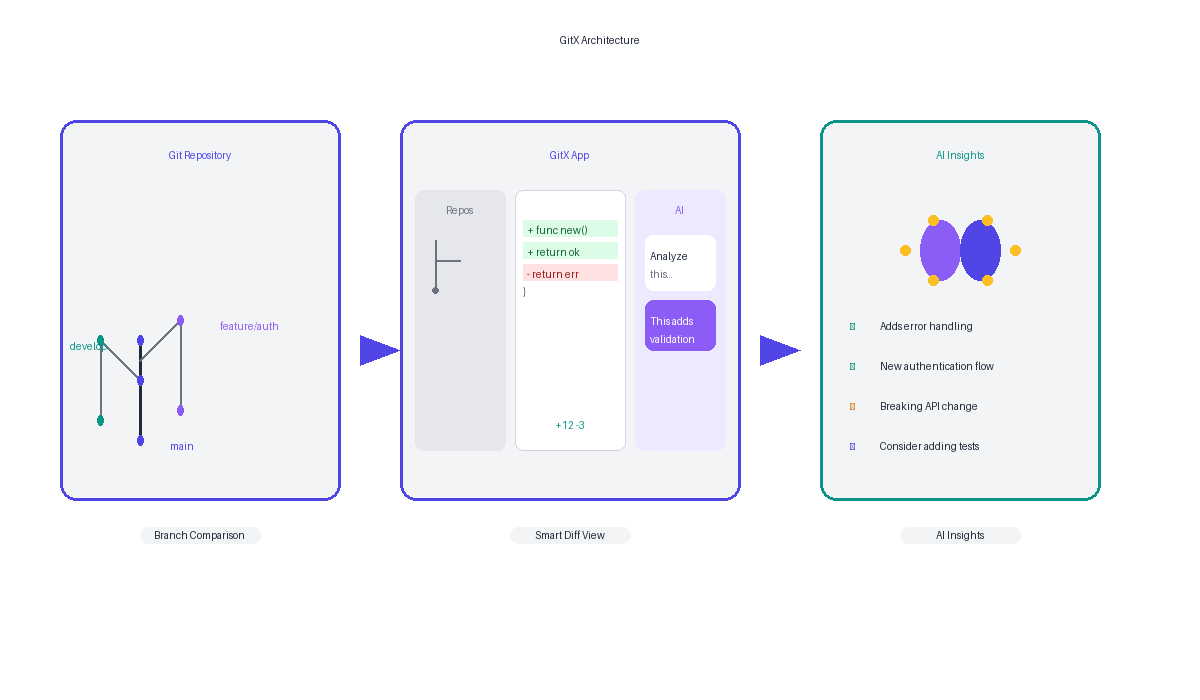
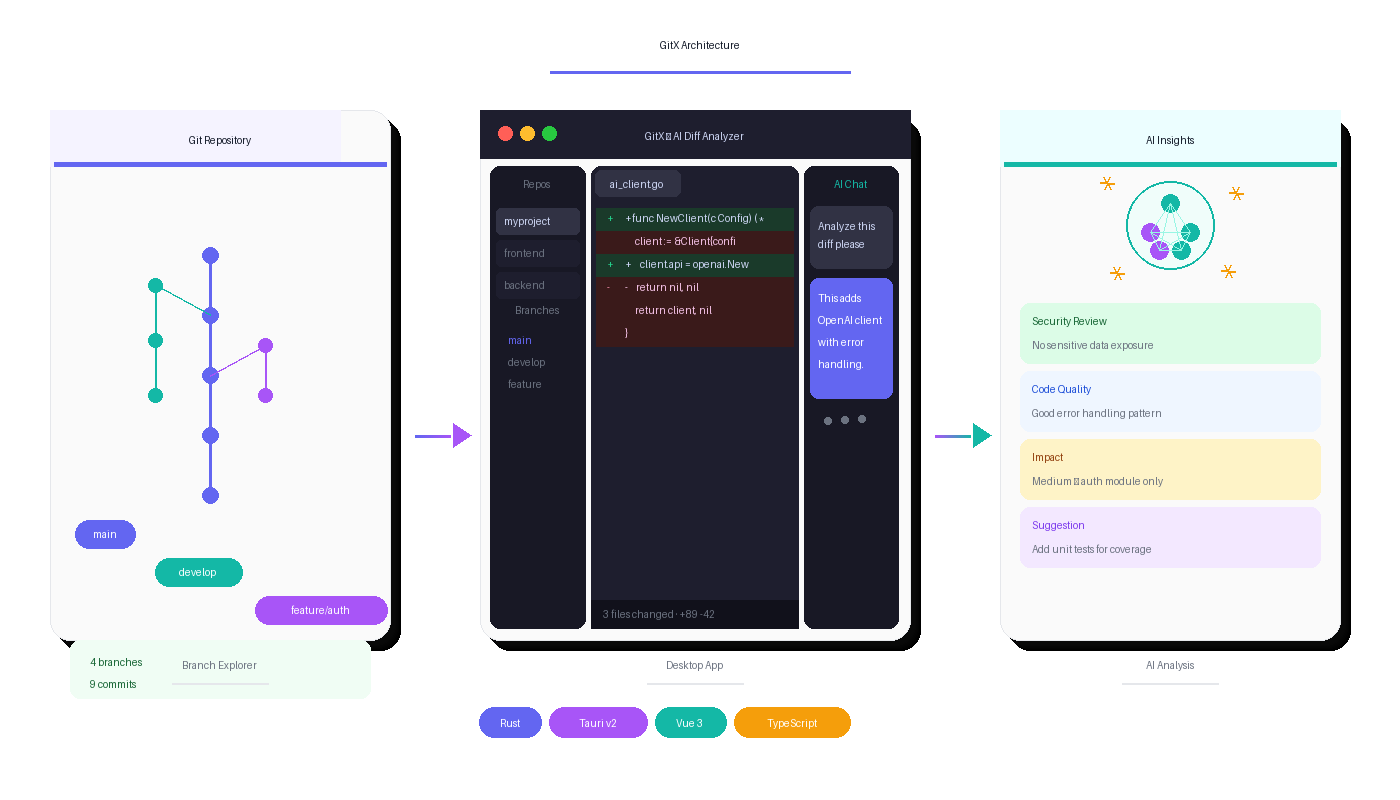
docs: redesign architecture diagram with professional quality
- Clean white background with card-based layout
- Three sections: Git Repository → GitX App (with UI mockup) → AI Insights
- Catppuccin-inspired dark theme for the app window preview
- Git branch tree visualization with colored commit nodes
- Diff code view showing +/- lines
- AI chat panel and insight cards
- Tech stack badges at bottom

diff --git a/gen_arch.py b/gen_arch.py
@@ -1,0 +1,268 @@
+#!/usr/bin/env python3
+"""Generate GitX architecture diagram"""
+from PIL import Image, ImageDraw, ImageFont
+import math, os
+
+W, H = 1400, 800
+img = Image.new('RGB', (W, H), '#ffffff')
+draw = ImageDraw.Draw(img)
+
+# Colors
+indigo = '#6366F1'
+teal = '#14B8A6'
+purple = '#A855F7'
+amber = '#F59E0B'
+dark = '#111827'
+gray = '#6B7280'
+light_gray = '#E5E7EB'
+card_bg = '#FAFAFA'
+
+# Fonts
+try:
+    title_f = ImageFont.truetype("/System/Library/Fonts/Helvetica.ttc", 36)
+    h2_f = ImageFont.truetype("/System/Library/Fonts/Helvetica.ttc", 22)
+    h3_f = ImageFont.truetype("/System/Library/Fonts/Helvetica.ttc", 18)
+    body_f = ImageFont.truetype("/System/Library/Fonts/Helvetica.ttc", 15)
+    small_f = ImageFont.truetype("/System/Library/Fonts/Helvetica.ttc", 13)
+    mono_f = ImageFont.truetype("/System/Library/Fonts/SF Mono.ttc", 11)
+except:
+    title_f = h2_f = h3_f = body_f = small_f = mono_f = ImageFont.load_default()
+
+def shadow_card(x, y, w, h, radius=20):
+    for i in range(12, 0, -1):
+        alpha = int(10 * (12-i)/12)
+        c = f'#{alpha:02x}{alpha:02x}{alpha:02x}'
+        draw.rounded_rectangle([x+4+i//2, y+4+i//2, x+w+4+i//2, y+h+4+i//2], 
+                              radius=radius, fill=c)
+    draw.rounded_rectangle([x, y, x+w, y+h], radius=radius, fill=card_bg, outline=light_gray)
+
+# === Title ===
+draw.text((W//2, 45), "GitX Architecture", font=title_f, fill=dark, anchor="mm")
+draw.line([(W//2-150, 72), (W//2+150, 72)], fill=indigo, width=3)
+
+# === Block 1: Git Repository ===
+b1x, b1y = 50, 110
+bw, bh = 340, 530
+shadow_card(b1x, b1y, bw, bh)
+draw.rounded_rectangle([b1x, b1y, bw, b1y+56], 
+                        corners=[(20,0),(20,0),(0,0),(0,20)], fill='#F5F3FF')
+draw.rectangle([b1x+4, b1y+52, b1x+bw-4, b1y+56], fill=indigo)
+draw.text((b1x + bw//2, b1y+30), "Git Repository", font=h2_f, fill=dark, anchor="mm")
+
+# Git tree
+tree_cx = b1x + bw//2 - 10
+tree_top = b1y + 100
+
+main_x = tree_cx
+for i in range(5):
+    y = tree_top + 45 + i*60
+    if i > 0:
+        draw.line([(main_x, tree_top+45+(i-1)*60), (main_x, y)], fill=indigo, width=3)
+    draw.ellipse([main_x-8, y-8, main_x+8, y+8], fill=indigo)
+
+dev_x = main_x - 55
+for i in range(3):
+    y = tree_top + 75 + i*55
+    if i > 0:
+        draw.line([(dev_x, tree_top+75+(i-1)*55), (dev_x, y)], fill=teal, width=2)
+    draw.ellipse([dev_x-7, y-7, dev_x+7, y+7], fill=teal)
+draw.line([(main_x, tree_top+105), (dev_x, tree_top+75)], fill=teal, width=2)
+
+feat_x = main_x + 55
+for i in range(2):
+    y = tree_top + 135 + i*50
+    if i > 0:
+        draw.line([(feat_x, tree_top+135+(i-1)*50), (feat_x, y)], fill=purple, width=2)
+    draw.ellipse([feat_x-7, y-7, feat_x+7, y+7], fill=purple)
+draw.line([(main_x, tree_top+165), (feat_x, tree_top+135)], fill=purple, width=2)
+
+# Branch labels
+label_y = tree_top + 310
+pill_data = [(b1x+25, label_y, "main", indigo),
+             (b1x+105, label_y+38, "develop", teal),
+             (b1x+205, label_y+76, "feature/auth", purple)]
+for px, py, txt, col in pill_data:
+    tw = len(txt)*9 + 24
+    draw.rounded_rectangle([px, py, px+tw, py+28], radius=14, fill=col)
+    draw.text((px+tw//2, py+14), txt, font=body_f, fill='white', anchor="mm")
+
+# Stats
+stats_y = label_y + 120
+draw.rounded_rectangle([b1x+20, stats_y, b1x+bw-20, stats_y+58], radius=10, fill='#F0FDF4')
+draw.text((b1x+40, stats_y+16), "4 branches", font=body_f, fill='#166534')
+draw.text((b1x+40, stats_y+38), "9 commits", font=body_f, fill='#166534')
+
+# === Arrow 1 ===
+arr_x = b1x + bw + 25
+arr_mid = arr_x + 40
+arr_y = H//2 + 35
+for i in range(36):
+    r = int(99*(1-i/36) + 168*i/36)
+    g = int(102*(1-i/36) + 85*i/36)
+    b_val = int(241*(1-i/36) + 247*i/36)
+    draw.line([(arr_x+i, arr_y), (arr_x+i, arr_y+2)], fill=f'#{r:02x}{g:02x}{b_val:02x}')
+draw.polygon([(arr_x+38, arr_y-12), (arr_x+56, arr_y), (arr_x+38, arr_y+12)], fill=purple)
+
+# === Block 2: GitX App Window ===
+b2x = b1x + bw + 90
+b2w, b2h = 430, 530
+shadow_card(b2x, b1y, b2w, b2h)
+
+# Title bar
+draw.rounded_rectangle([b2x, b1y, b2x+b2w, b1y+48],
+                        corners=[(20,0),(20,0),(0,0),(0,20)], fill='#1e1e2e')
+draw.ellipse([b2x+18, b1y+16, b2x+32, b1y+30], fill='#FF5F57')
+draw.ellipse([b2x+40, b1y+16, b2x+54, b1y+30], fill='#FEBC2E')
+draw.ellipse([b2x+62, b1y+16, b2x+76, b1y+30], fill='#28C840')
+draw.text((b2x+b2w//2, b1y+26), "GitX — AI Diff Analyzer", font=h3_f, fill='#cdd6f4', anchor="mm")
+
+app_y = b1y + 56
+app_h = b2h - 68
+gap, pad = 6, 10
+
+# Sidebar
+sw = 95
+draw.rounded_rectangle([b2x+pad, app_y, b2x+pad+sw, app_y+app_h], radius=10, fill='#181825')
+draw.text((b2x+pad+sw//2, app_y+18), "Repos", font=small_f, fill=gray, anchor="mm")
+items = ['myproject', 'frontend', 'backend']
+iy = app_y+42
+for item in items:
+    bg = '#313244' if item=='myproject' else '#1e1e2e'
+    fg = '#cdd6f4' if item=='myproject' else gray
+    draw.rounded_rectangle([b2x+pad+6, iy, b2x+pad+sw-6, iy+26], radius=5, fill=bg)
+    draw.text((b2x+pad+14, iy+13), item, font=small_f, fill=fg, anchor="lm")
+    iy += 32
+iy += 6
+draw.text((b2x+pad+sw//2, iy), "Branches", font=small_f, fill=gray, anchor="mm")
+iy += 24
+for txt, col in [('main', indigo), ('develop', gray), ('feature', gray)]:
+    draw.text((b2x+pad+14, iy), f"  {txt}", font=mono_f, fill=col)
+    iy += 22
+
+# Diff panel
+dx = b2x+pad+sw+gap
+dw = b2w-sw-pad*2-gap-96-gap
+draw.rounded_rectangle([dx, app_y, dx+dw, app_y+app_h], radius=10, fill='#1e1e2e')
+tab_w = 85
+draw.rounded_rectangle([dx+4, app_y+4, dx+4+tab_w, app_y+30], radius=6, fill='#313244')
+draw.text((dx+4+tab_w//2, app_y+18), "ai_client.go", font=mono_f, fill='#cdd6f4', anchor="mm")
+
+dy = app_y+42
+diffs = [
+    ("+", "#23D18B", "+func NewClient(c Config) (*Client, error) {"),
+    (" ", "", "     client := &Client{config: c}"),
+    ("+", "#23D18B", "+    client.api = openai.New()"),
+    ("-", "#F38BA8", "-    return nil, nil"),
+    (" ", "", "     return client, nil"),
+    (" ", "", "}"),
+]
+line_h = 23
+max_chars = int(dw / 7.2)
+for sign, color, code in diffs:
+    bg = '#1a1a28' if not sign else ('#1a3a2a' if sign == '+' else '#3a1a1a')
+    draw.rectangle([dx+5, dy, dx+dw-5, dy+line_h], fill=bg)
+    draw.text((dx+14, dy+4), f"{sign:>2}", font=mono_f, fill=color if color else gray)
+    display_code = code[:max_chars] if len(code) > max_chars else code
+    fg_color = '#cdd6f4' if not sign or sign == '+' else '#f5c2e7'
+    draw.text((dx+34, dy+4), display_code, font=mono_f, fill=fg_color)
+    dy += line_h
+
+status_y = app_y+app_h-28
+draw.rectangle([dx, status_y, dx+dw, app_y+app_h], fill='#11111b')
+draw.text((dx+12, status_y+8), "3 files changed · +89 -42", font=small_f, fill=gray)
+
+# AI Panel
+ax = dx+dw+gap
+aw = 94
+draw.rounded_rectangle([ax, app_y, ax+aw, app_y+app_h], radius=10, fill='#181825')
+draw.text((ax+aw//2, app_y+18), "AI Chat", font=small_f, fill=teal, anchor="mm")
+
+msg_y = app_y+40
+draw.rounded_rectangle([ax+6, msg_y, ax+aw-6, msg_y+62], radius=8, fill='#313244')
+draw.text((ax+14, msg_y+14), "Analyze this", font=small_f, fill='#cdd6f4')
+draw.text((ax+14, msg_y+32), "diff please", font=small_f, fill='#cdd6f4')
+
+rsp_y = msg_y+72
+draw.rounded_rectangle([ax+6, rsp_y, ax+aw-6, rsp_y+120], radius=8, fill=indigo)
+lines_rsp = ["This adds", "OpenAI client", "with error", "handling."]
+for i, ln in enumerate(lines_rsp):
+    draw.text((ax+14, rsp_y+14+i*22), ln, font=small_f, fill='white')
+
+# Typing dots
+type_y = rsp_y+132
+for i in range(3):
+    dot_off = math.sin(type_y/200 + i*0.8) * 2
+    draw.ellipse([ax+20+i*17, type_y+6+dot_off, ax+27+i*17, type_y+13+dot_off], fill=gray)
+
+# === Arrow 2 ===
+arr2x = b2x + b2w + 25
+for i in range(36):
+    r = int(168*(1-i/36) + 20*i/36)
+    g = int(85*(1-i/36) + 184*i/36)
+    b_val = int(247*(1-i/36) + 166*i/36)
+    draw.line([(arr2x+i, arr_y), (arr2x+i, arr_y+2)], fill=f'#{r:02x}{g:02x}{b_val:02x}')
+draw.polygon([(arr2x+38, arr_y-12), (arr2x+56, arr_y), (arr2x+38, arr_y+12)], fill=teal)
+
+# === Block 3: AI Insights ===
+b3x = b2x + b2w + 90
+b3w, b3h = 340, 530
+shadow_card(b3x, b1y, b3w, b3h)
+
+draw.rounded_rectangle([b3x, b1y, b3x+b3w, b1y+56],
+                        corners=[(20,0),(20,0),(0,0),(0,20)], fill='#ECFEFF')
+draw.rectangle([b3x+4, b1y+52, b3x+b3w-4, b1y+56], fill=teal)
+draw.text((b3x+b3w//2, b1y+30), "AI Insights", font=h2_f, fill=dark, anchor="mm")
+
+brain_cx = b3x + b3w//2
+brain_y = b1y + 115
+r_big = 44
+draw.ellipse([brain_cx-r_big, brain_y-r_big, brain_cx+r_big, brain_y+r_big],
+            fill='#F0FDFA', outline=teal, width=2)
+nodes = [(0,-22), (-20,7), (20,7), (-11,25), (11,25)]
+node_pos = [(brain_cx+n[0], brain_y+n[1]) for n in nodes]
+for i, (nx, ny) in enumerate(node_pos):
+    draw.ellipse([nx-9, ny-9, nx+9, ny+9], fill=teal if i%2==0 else purple)
+for i in range(len(nodes)):
+    for j in range(i+1, len(nodes)):
+        draw.line([node_pos[i], node_pos[j]], fill='#99F6E4', width=1)
+
+sparkles = [(brain_cx-63,brain_y-42),(brain_cx+66,brain_y-32),
+            (brain_cx-53,brain_y+48),(brain_cx+58,brain_y+46)]
+for sx, sy in sparkles:
+    for angle in range(0,360,60):
+        rad = math.radians(angle)
+        draw.line([(sx,sy),(sx+int(7*math.cos(rad)),sy+int(7*math.sin(rad)))], fill=amber, width=2)
+
+insights = [
+    ("Security Review", "No sensitive data exposure", '#DCFCE7', '#166534'),
+    ("Code Quality", "Good error handling pattern", '#EFF6FF', '#1D4ED8'),
+    ("Impact", "Medium — auth module only", '#FEF3C7', '#92400E'),
+    ("Suggestion", "Add unit tests for coverage", '#F3E8FF', '#7C3AED'),
+]
+card_y = brain_y + 78
+for title, desc, bg_col, fg_col in insights:
+    ch = 60
+    draw.rounded_rectangle([b3x+20, card_y, b3x+b3w-20, card_y+ch], radius=10, fill=bg_col)
+    draw.text((b3x+32, card_y+12), title, font=body_f, fill=fg_col)
+    draw.text((b3x+32, card_y+36), desc, font=small_f, fill=gray)
+    card_y += ch + 8
+
+# Bottom labels
+labels_y = b1y + bh + 25
+for lx, ltxt in [(b1x+bw//2,"Branch Explorer"), (b2x+b2w//2,"Desktop App"), (b3x+b3w//2,"AI Analysis")]:
+    draw.text((lx, labels_y), ltxt, font=body_f, fill=gray, anchor="mm")
+    draw.line([(lx-48, labels_y+18), (lx+48, labels_y+18)], fill=light_gray, width=2)
+
+# Tech badges
+badge_y = labels_y + 42
+badges = [("Rust",indigo),("Tauri v2",purple),("Vue 3",teal),("TypeScript",amber)]
+bx_start = W//2 - sum(len(t)*9+50 for t,c in badges)//2
+for txt, col in badges:
+    tw = len(txt)*9 + 26
+    draw.rounded_rectangle([bx_start, badge_y, bx_start+tw, badge_y+30], radius=15, fill=col)
+    draw.text((bx_start+tw//2, badge_y+16), txt, font=small_f, fill='white', anchor="mm")
+    bx_start += tw + 8
+
+out = "/Users/wei.lli/projects/gitx/docs/gitx-arch.png"
+img.save(out, 'PNG', quality=95)
+print(f"Done! Saved: {out} ({os.path.getsize(out)//1024}KB)")
